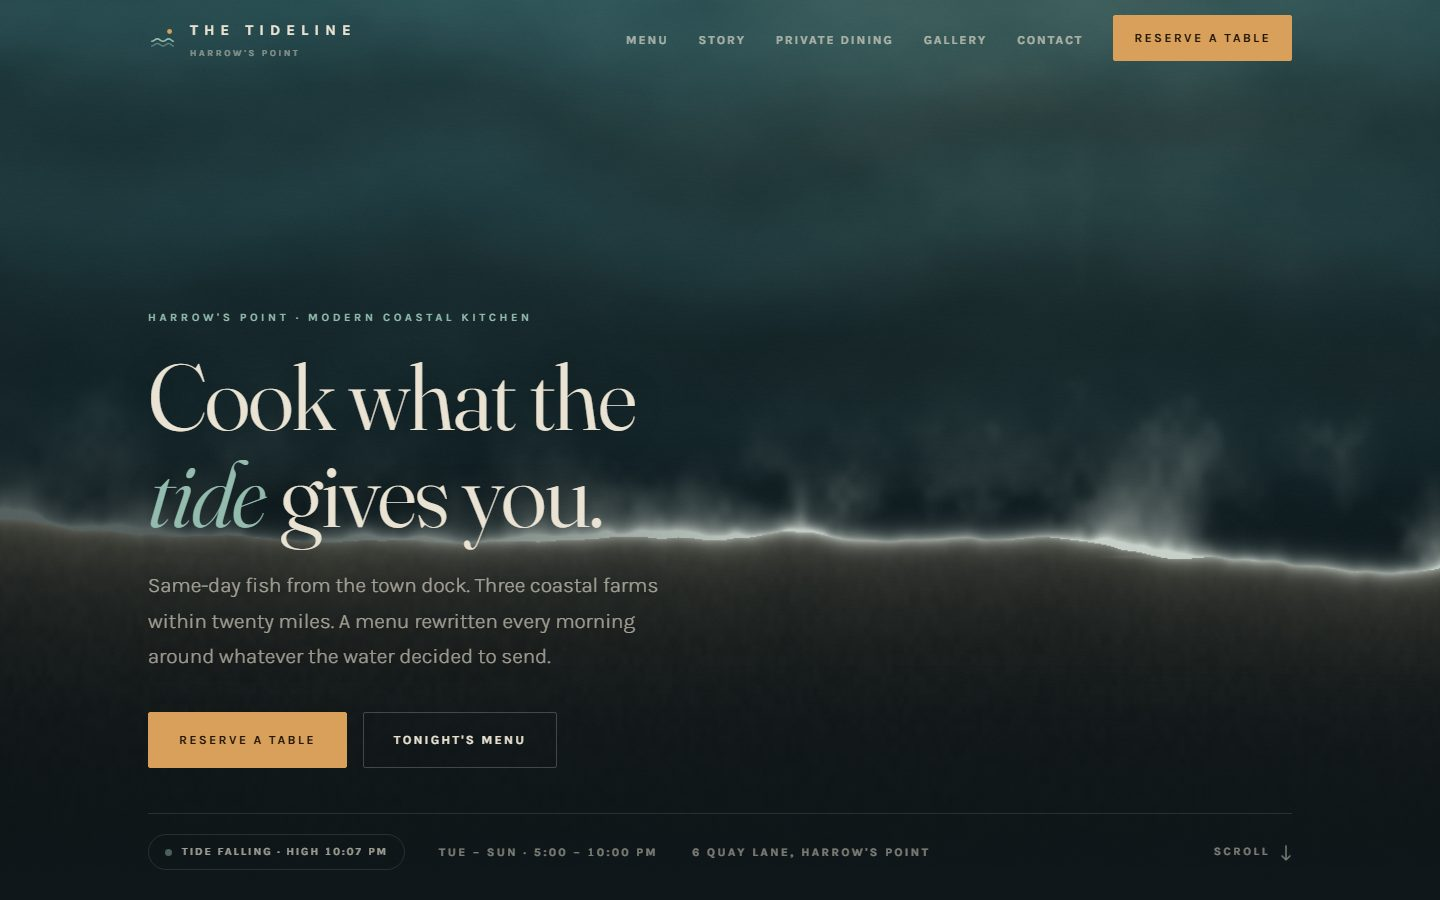
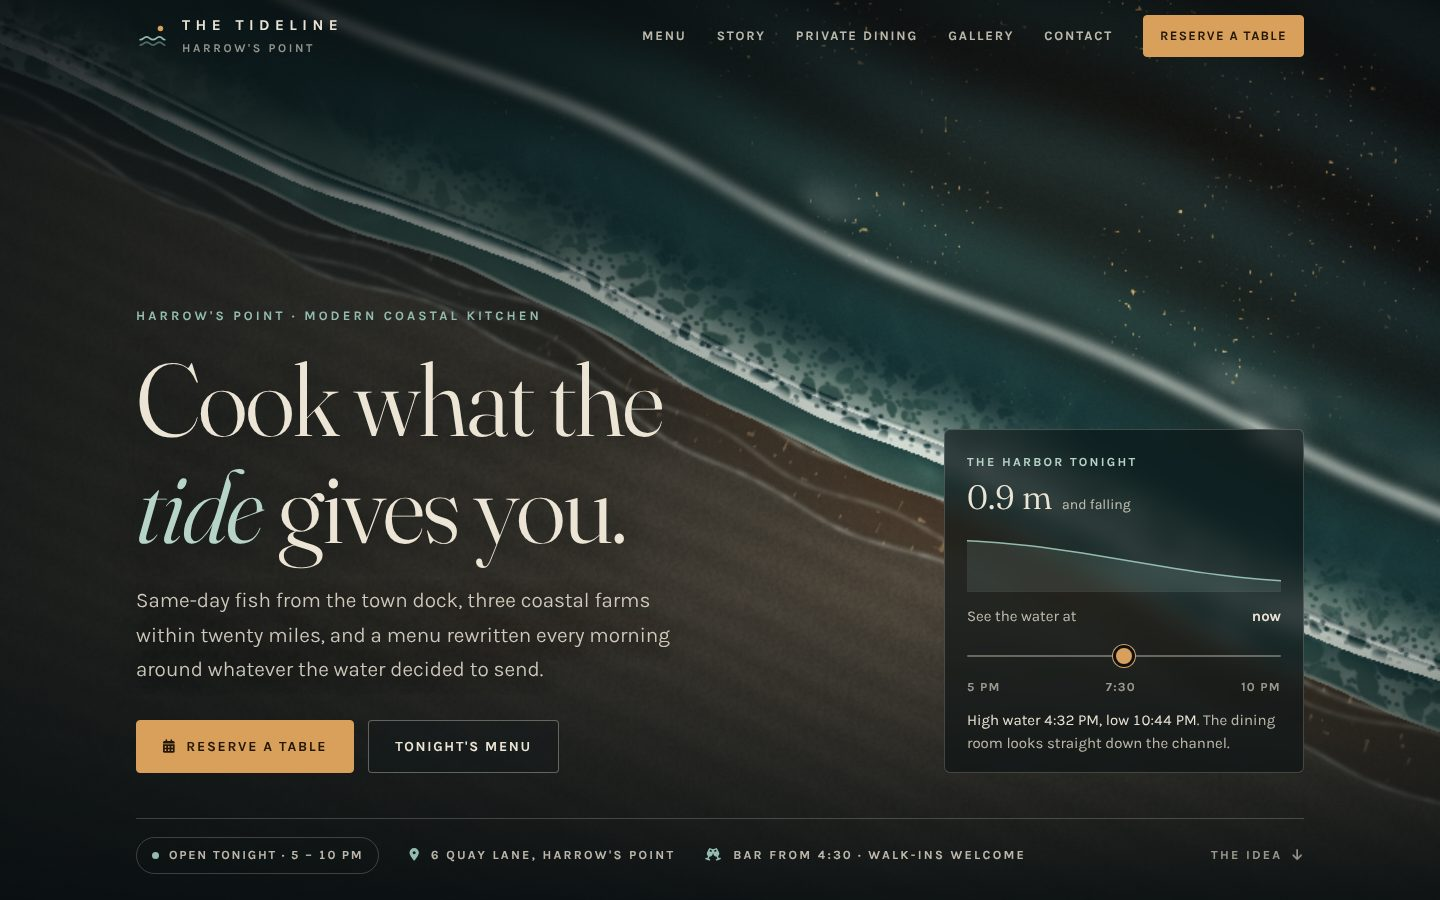
revamp: 26 pass 5 — sweep fixes, adaptive shoreline, thumbnail; awaiting review [Claude]
Claude-Session: https://claude.ai/code/session_01QevnQ6azQ75QFG65m29Xni

diff --git a/sites/26-the-tideline/tide-hero.js b/sites/26-the-tideline/tide-hero.js
@@ -310,22 +310,26 @@
   if (REDUCED) return;
 
   var running = !document.hidden, raf = 0, last = 0, start = performance.now() - STILL_T * 1000;
-  var slow = 0, frames = 0;
+  /* adaptive cost: watch the real frame interval; a dozen slow frames in a row
+     render smaller, and a very slow (software) renderer settles for ~15 fps,
+     so the page itself stays responsive */
+  var minGap = 30, slowRun = 0, steps = 0;
   function loop(now) {
     if (!running) return;
     raf = requestAnimationFrame(loop);
-    if (now - last < 30) return;           /* ~30 fps is plenty for a tide */
-    var dt = Math.min(0.1, (now - last) / 1000);
+    if (now - last < minGap) return;      /* ~30 fps is plenty for a tide */
+    var gap = last ? now - last : minGap;
+    var dt = Math.min(0.1, gap / 1000);
     last = now;
     ptr.x += (ptr.gx - ptr.x) * 0.05;
     level += (levelGoal - level) * (1 - Math.exp(-dt * 2.2));
-    var t0 = performance.now();
     draw((now - start) / 1000);
-    /* adaptive resolution: if frames keep costing more than ~40 ms, render smaller */
-    if (frames < 90) {
-      frames++;
-      if (performance.now() - t0 > 40 || dt > 0.06) slow++;
-      if (frames === 45 && slow > 30 && scale > 0.55) { scale *= 0.72; frames = 0; slow = 0; }
+    if (steps < 4) {
+      slowRun = gap > minGap * 2.2 ? slowRun + 1 : 0;
+      if (slowRun >= 12) {
+        slowRun = 0; steps++;
+        if (scale > 0.5) scale *= 0.7; else minGap = 66;
+      }
     }
   }
   function setRunning(on) {
@@ -334,8 +338,12 @@
     if (on) { last = 0; raf = requestAnimationFrame(loop); } else cancelAnimationFrame(raf);
   }
   if (running) raf = requestAnimationFrame(loop);
+  var onScreen = true;
   if ("IntersectionObserver" in window) {
-    new IntersectionObserver(function (en) { setRunning(en[0].isIntersecting && !document.hidden); }, { threshold: 0.02 }).observe(canvas);
+    new IntersectionObserver(function (en) { onScreen = en[0].isIntersecting; setRunning(onScreen && !document.hidden); }, { threshold: 0.02 }).observe(canvas);
   }
-  document.addEventListener("visibilitychange", function () { setRunning(!document.hidden); });
+  document.addEventListener("visibilitychange", function () { setRunning(onScreen && !document.hidden); });
+  /* leaving for another page: stop drawing so the exit is instant */
+  document.addEventListener("tideline:leave", function () { setRunning(false); });
+  window.addEventListener("pageshow", function () { setRunning(onScreen && !document.hidden); });
 })();

diff --git a/sites/26-the-tideline/css/story.css b/sites/26-the-tideline/css/story.css
@@ -23,7 +23,7 @@
 .dial .daylight { fill: none; stroke-width: 6; stroke-linecap: round; stroke: rgba(217, 160, 91, 0.55); }
 .dial .ticks line { stroke: var(--line-3); stroke-width: 1; }
 .dial .ticks line.major { stroke: var(--bone-3); stroke-width: 1.5; }
-.dial .ticks text { fill: var(--bone-3); font: 700 11px var(--sans); letter-spacing: .08em; }
+.dial .ticks text { fill: var(--bone-3); font: 700 12px var(--sans); letter-spacing: .06em; }
 .dial .hand { stroke: var(--amber); stroke-width: 2.5; stroke-linecap: round; transform-origin: 100px 100px; transition: transform .9s var(--ease-out); }
 .dial .hub { fill: var(--amber); }
 .clock-time { font-family: var(--serif); font-weight: 330; font-size: clamp(2.4rem, 4vw, 3.2rem); line-height: 1; font-variant-numeric: tabular-nums; }

diff --git a/sites/26-the-tideline/style.css b/sites/26-the-tideline/style.css
@@ -218,7 +218,8 @@ button { cursor: pointer; }
 .nav-links a:hover { color: var(--bone); }
 .nav-links a:hover::after, .nav-links a[aria-current="page"]::after { transform: scaleX(1); }
 .nav-links a[aria-current="page"] { color: var(--glass-2); }
-.nav-cta { flex: none; }
+.nav-cta { flex: none; gap: 0; }
+.nav-cta .cta-long { margin-left: 0.36em; }   /* the flex gap would double the word space */
 .nav-cta[aria-current="page"] { background: transparent; color: var(--amber-2); }
 .nav-burger {
   display: none; flex: none;

diff --git a/sites/26-the-tideline/css/menu.css b/sites/26-the-tideline/css/menu.css
@@ -48,7 +48,7 @@
 .diet-filter { display: flex; gap: 8px; align-items: center; flex-wrap: wrap; }
 .diet-filter .lbl { font-size: 0.78rem; font-weight: 700; letter-spacing: 0.18em; text-transform: uppercase; color: var(--bone-3); margin-right: 4px; }
 .chip .ab {
-  font-size: 0.72rem; font-weight: 700; letter-spacing: .04em;
+  font-size: 0.75rem; font-weight: 700; letter-spacing: .04em;
   padding: 1px 6px; border-radius: 3px; border: 1px solid currentColor; opacity: .8;
 }
 .menu-status {

diff --git a/sites/26-the-tideline/main.js b/sites/26-the-tideline/main.js
@@ -115,6 +115,7 @@
     if (!a || !isInternal(a)) return;
     e.preventDefault();
     var dest = a.href;
+    document.dispatchEvent(new CustomEvent("tideline:leave"));
     try { sessionStorage.setItem("tl-wash", "1"); } catch (err) { /* fine */ }
     wash.classList.remove("in");
     wash.classList.add("out");

diff --git a/revamp/notes/26-the-tideline.md b/revamp/notes/26-the-tideline.md
@@ -2,8 +2,8 @@
 
 - **Vertical:** Restaurant — Modern Coastal Kitchen
 - **Batch:** 26 · **Builder:** Claude · **Reviewer:** Codex
-- **Stage:** building
-- **Next step:** Claude continues T21 from the Pass log below.
+- **Stage:** awaiting review
+- **Next step:** Codex reviews the rebuilt site in T24 (with the Hub and guide).
 
 ## Original audit
 
@@ -300,8 +300,53 @@ No build passes performed by Codex in T18. Claude owns the five T21 passes.
   state is a recap (about, from, format, date, reference) with what happens
   next for that kind of enquiry, and takes focus. Backend TODO comments kept.
 
+### Pass 5 — hunt across all seven pages (Claude, T21)
+- Swept every page at 1440×900, 390×844, 1280×720 and 375×667, motion on and
+  reduced (56 configurations), scrolling each page through to load every
+  image and reveal. Fixed what it found: two decorative labels under 12px
+  (filter-chip abbreviations, dial hour labels), and the header button's
+  "Reserve a Table" had a doubled word gap from the flex gap.
+- Software rendering (this container's SwiftShader) showed that a slow GPU
+  could starve the page while the shoreline draws. The loop now watches its
+  real frame interval: a dozen slow frames in a row render smaller (up to
+  four steps), then settle at ~15 fps; it also stops drawing the moment the
+  visitor follows an internal link, and resumes on back/forward. Measured
+  in-page: click to next page's navigation start is 444 ms (the exit wash).
+- Checked every Font Awesome name used against the 6.5.1 free stylesheet;
+  all exist. Wash transitions land cleanly and never stay over a page
+  (also after Back). `projects.json` description and tech updated.
+
 ## Verification
 
+### Build verification — Claude · 2026-10-28 · T21
+- check-rules: **OK** (108 files, 26 projects).
+- verify-sites `--only 26 --cdn-mirror`: ok, console 0, page 0, failed
+  requests 0 (home only; the sweep below covers the nested pages).
+- All-page sweep, 56 configurations (7 pages × 1440×900, 390×844, 1280×720,
+  375×667 × motion on/reduced): **zero** console errors/warnings, page
+  errors, failed requests or 4xx/5xx; no sideways overflow; no visible text
+  under 12px; no broken images.
+- Visual check: **DONE** at 1440×900 and 390×844 (plus both short sizes),
+  motion on and reduced, all seven pages, by scroll-walk captures and
+  first-screen sheets. No-WebGL fallback checked on home.
+- Interaction journeys (scripted, keyboard and touch): drawer (Tab cycles
+  header+drawer, `inert` elsewhere, Escape returns to the button); home gauge
+  scrub 5 PM ↔ 10 PM moves the water (3.4 m → 0.9 m); menu vegan/GF filters
+  and the phone pill; story dial and map routes; private dining planner
+  room → tasting → buyout and the GET form into Contact (subject, format,
+  guests carried over); reservations party → keyboard calendar → slot →
+  empty submit (3 linked errors, focus on name) → confirmation → .ics
+  (DTSTART/SUMMARY checked) → book another, at 1440 and by touch at 390 with
+  the phone bar; gallery viewer (Enter opens, arrows, Tab trapped, Escape
+  returns focus to the last picture); contact prefill, errors, recap.
+- Environment: system Chromium/SwiftShader, protocol CDN/font mirror
+  (`--cdn-mirror`); this container cannot reach jsdelivr, cdnjs, unpkg or any
+  stock-photo host. Under SwiftShader the shader runs at a few fps, so
+  motion was judged from a sped-up frame sequence.
+- Thumbnail regenerated (`--force --cdn-mirror --wait 6000`) and inspected:
+  it shows the new shoreline, gauge and header.
+
+### Audit verification — Codex · 2026-10-27 · T18
 - check-rules: **OK** (99 files, 26 projects).
 - verify-sites: `--only 26 --cdn-mirror` → home OK, console 0, page 0,
   failed requests 0. This script alone does not cover the nested pages.

diff --git a/revamp/BOARD.md b/revamp/BOARD.md
@@ -37,8 +37,8 @@ Take open tasks from the top, in order. Status: `todo` · `in progress` · `done
 | T18 | Audit site 26 (all 7 pages, no code changes) | Codex | done |
 | T19 | Confirm batch 4 | Claude | done |
 | T20 | Fix batch 5 | Claude | done |
-| T21 | Build site 26 (5 passes, starting from the audit) | Claude | in progress |
-| T22 | Hub and guide | Claude | todo |
+| T21 | Build site 26 (5 passes, starting from the audit) | Claude | done |
+| T22 | Hub and guide | Claude | in progress |
 | T22a | Fix 18 (R3 from T19: mobile intro line) | Codex | todo |
 | T23 | Confirm batch 5 | Codex | todo |
 | T24 | Review site 26 + Hub + guide | Codex | todo |
@@ -77,7 +77,7 @@ Stage: `not started` → `building` → `awaiting review` → `changes requested
 | 23-umbra-cacao | 5 | Claude | Codex | done | [note](notes/23-umbra-cacao.md) |
 | 24-pendula-works | 5 | Claude | Codex | awaiting confirm | [note](notes/24-pendula-works.md) |
 | 25-somne-railways | 5 | Claude | Codex | done | [note](notes/25-somne-railways.md) |
-| 26-the-tideline | 26 | Claude | Codex | not started | [note](notes/26-the-tideline.md) |
+| 26-the-tideline | 26 | Claude | Codex | awaiting review | [note](notes/26-the-tideline.md) |
 
 ## Questions for the user
 
